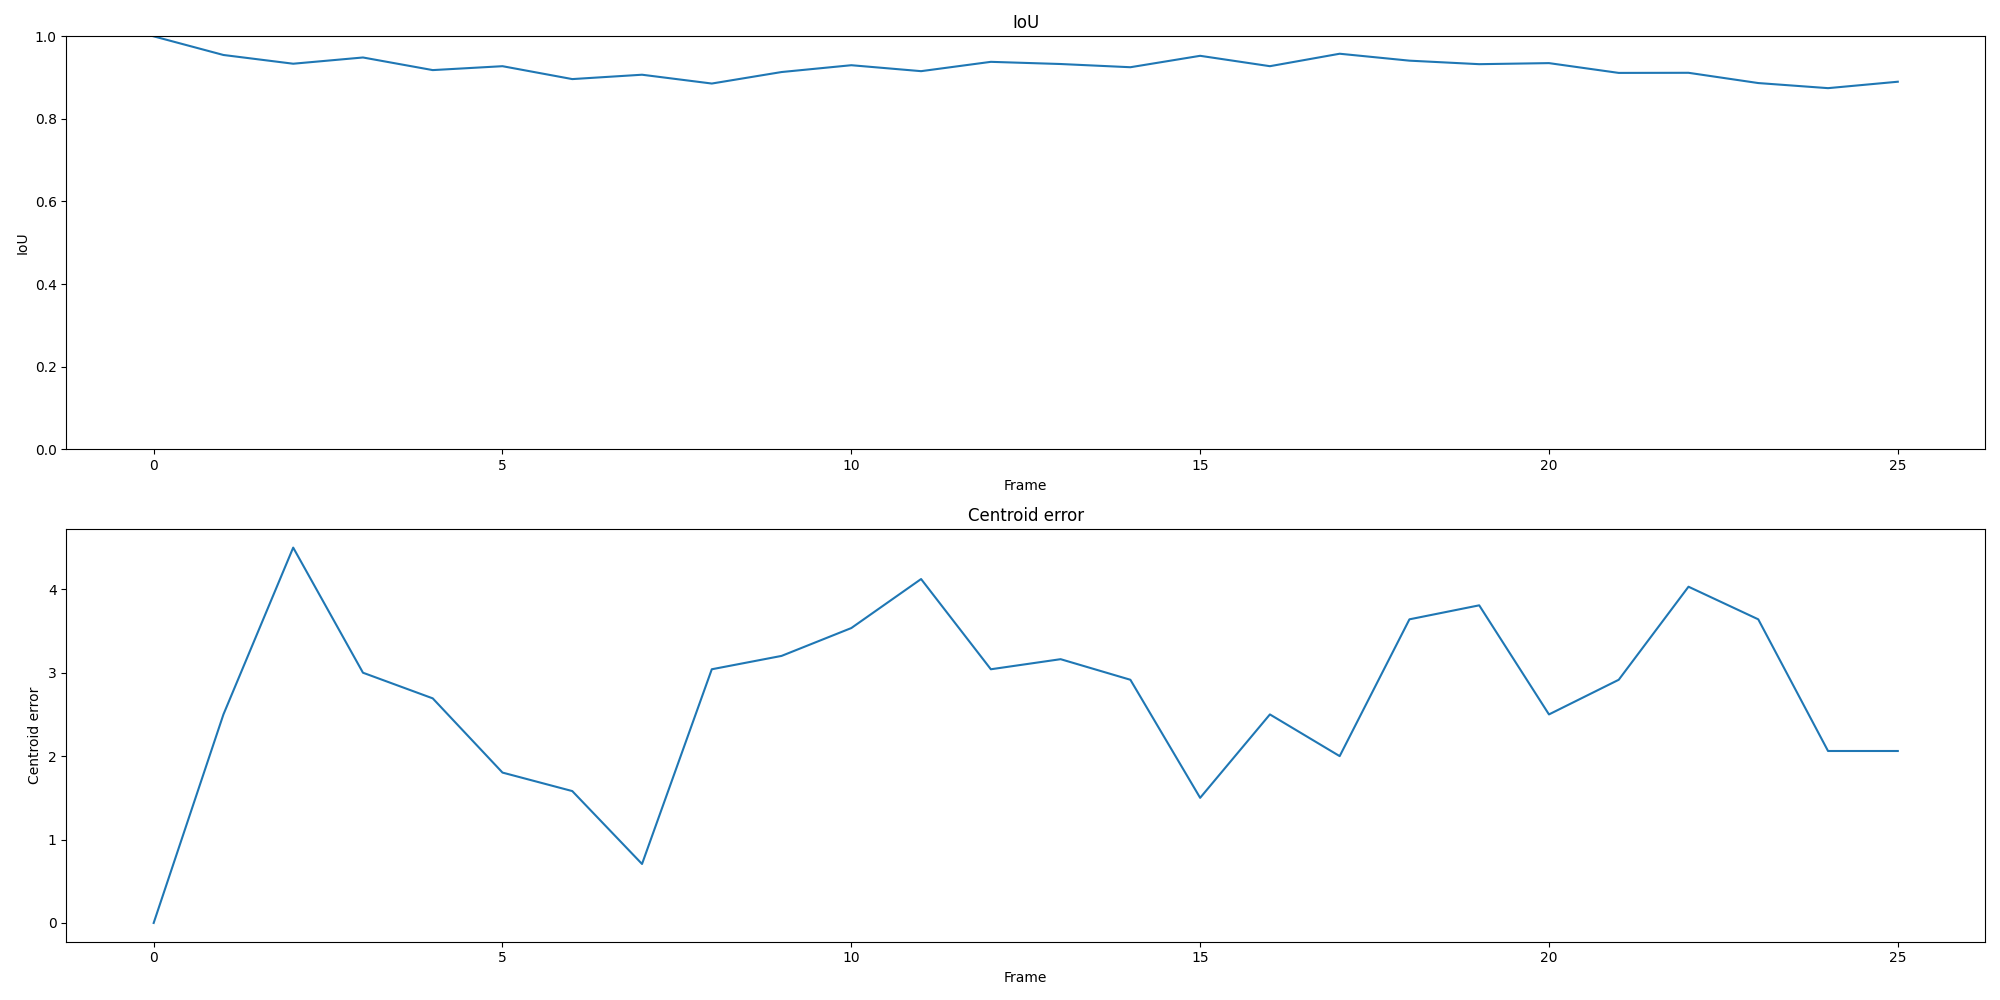
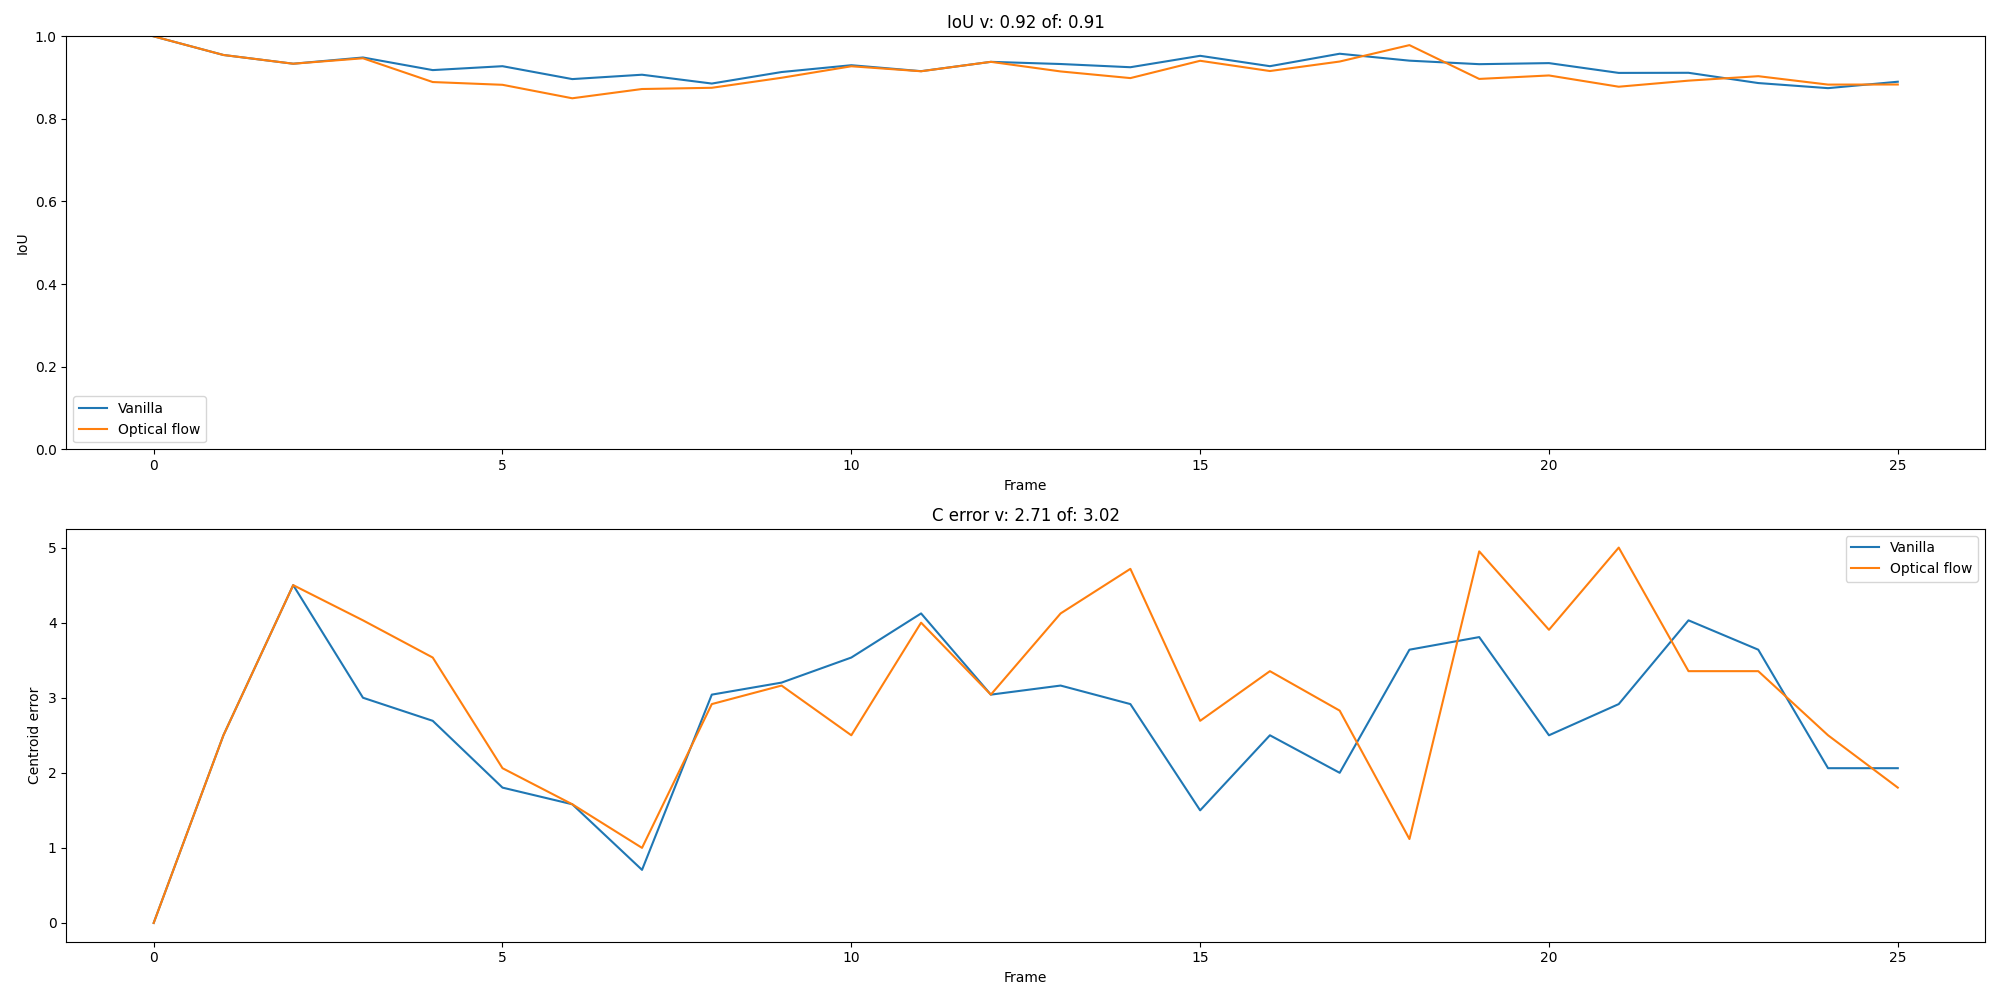
add optical flow

diff --git a/eval.py b/eval.py
@@ -37,7 +37,8 @@ def main(path="sequences-train",
     model.to(device)
     model.eval()
     
-    tracker = Tracker(model, k_context=3)
+    tracker_vanilla = Tracker(model, optical_flow=None)
+    tracker_of = Tracker(model, optical_flow="ilk") # tvl1 or ilk
     
     annotations = utils.load_sequences(path)
     
@@ -48,13 +49,20 @@ def main(path="sequences-train",
         
         box1 = annotations[object_name][0]["box"]
         
-        tracker.init_tracker(img1, box1)
+        tracker_vanilla.init_tracker(img1, box1)
+        tracker_of.init_tracker(img1, box1)
         
         imgs = [img1.copy()]
-        centroid_errors = [0]
-        ious = [1]
         
-        box_c = box1
+        
+        centroid_errors_v = [0]
+        ious_v = [1]
+        
+        centroid_errors_of = [0]
+        ious_of = [1]
+        
+        box_c_v = box1
+        box_c_of = box1
         
         for i in tqdm(range(1, len(annotations[object_name]))):
             img_c = io.imread(annotations[object_name][i]["path"])
@@ -62,16 +70,24 @@ def main(path="sequences-train",
             
             box_gt = annotations[object_name][i]["box"]
             
-            box_c, search_region = tracker.step(img_c, show=show)
-            box_c = box_c.astype(int)        
+            box_c_v, search_region = tracker_vanilla.step(img_c, show=show)
+            box_c_v = box_c_v.astype(int)
             
-            img_c = cv2.rectangle(img_c, (box_c[0], box_c[1]), (box_c[2], box_c[3]), (255, 0, 0), 2)
-            img_c = cv2.rectangle(img_c, (box_gt[0], box_gt[1]), (box_gt[2], box_gt[3]), (0, 255, 0), 2)
+            box_c_of, _ = tracker_of.step(img_c, show=show)
+            box_c_of = box_c_of.astype(int)
+            
+            
+            img_c = cv2.rectangle(img_c, (box_c_v[0], box_c_v[1]), (box_c_v[2], box_c_v[3]), (255, 0, 0), 2) # vanilla in blue
+            img_c = cv2.rectangle(img_c, (box_c_of[0], box_c_of[1]), (box_c_of[2], box_c_of[3]), (0, 0, 255), 2) # optical flow in red
+            img_c = cv2.rectangle(img_c, (box_gt[0], box_gt[1]), (box_gt[2], box_gt[3]), (0, 255, 0), 2) # ground truth in green
             
             imgs.append(img_c)
 
-            ious.append(utils.iou_unit(box_c, box_gt))
-            centroid_errors.append(utils.centroid_error(box_c, box_gt))
+            ious_v.append(utils.iou_unit(box_c_v, box_gt))
+            ious_of.append(utils.iou_unit(box_c_of, box_gt))
+            
+            centroid_errors_v.append(utils.centroid_error(box_c_v, box_gt))
+            centroid_errors_of.append(utils.centroid_error(box_c_of, box_gt))
             
             if show:
                 plt.imshow(search_region)
@@ -79,20 +95,27 @@ def main(path="sequences-train",
                 plt.show()
             
         
-        ious = np.array(ious)   
-        centroid_errors = np.array(centroid_errors)
+        ious_v = np.array(ious_v)
+        ious_of = np.array(ious_of)
+        
+        centroid_errors_v = np.array(centroid_errors_v)
+        centroid_errors_of = np.array(centroid_errors_of)  
         
         plt.figure(figsize=(20, 10))
         plt.subplot(2, 1, 1)
-        plt.plot(ious)
+        plt.plot(ious_v, label="Vanilla")
+        plt.plot(ious_of, label="Optical flow")
+        plt.legend()
+        plt.title(f"IoU v: {np.mean(ious_v):.2f} of: {np.mean(ious_of):.2f}")
         plt.ylim(0, 1)
-        plt.title("IoU")
         plt.xlabel("Frame")
         plt.ylabel("IoU")
 
         plt.subplot(2, 1, 2)
-        plt.plot(centroid_errors)
-        plt.title("Centroid error")
+        plt.plot(centroid_errors_v, label="Vanilla")
+        plt.plot(centroid_errors_of, label="Optical flow")
+        plt.legend()
+        plt.title(f"C error v: {np.mean(centroid_errors_v):.2f} of: {np.mean(centroid_errors_of):.2f}")
         plt.xlabel("Frame")
         plt.ylabel("Centroid error")
         

diff --git a/tracker.py b/tracker.py
@@ -4,10 +4,12 @@ from helper import NormalizeToTensor, Rescale, BoundingBox, crop_sample
 import numpy as np
 import torchvision.transforms as transforms
 import matplotlib.pyplot as plt
+from eval_utils import delta_by_optical_flow
 
 class Tracker():
-    def __init__(self, model, k_context=2):
-        
+    def __init__(self, model, k_context=2, optical_flow=None):
+        assert optical_flow in [None, "tvl1", "ilk"], "Invalid optical flow method"
+        self.optical_flow = optical_flow
 
         self.net = model
         self.net.eval()
@@ -36,10 +38,19 @@ class Tracker():
     def step(self, image, show=False):
         assert self.is_init, "Tracker not initialized"
         
+        if self.optical_flow == "tvl1":
+            u, v = delta_by_optical_flow(self.prev_img, image, mode="tvl1")
+        elif self.optical_flow == "ilk":
+            u, v = delta_by_optical_flow(self.prev_img, image, mode="ilk")
+        else:
+            u, v = 0, 0
+            
+        new_box = self.prev_box + np.array([u, v, u, v])
+        
         prev_sample, opts_prev = crop_sample({'image': self.prev_img,
                                              'bb': self.prev_box})
         curr_sample, opts_curr = crop_sample({'image': image,
-                                             'bb': self.prev_box})
+                                             'bb': new_box})
         
         if show:
             plt.subplot(1, 2, 1)

diff --git a/eval_utils.py b/eval_utils.py
@@ -4,6 +4,9 @@ from skimage import io
 import numpy as np
 import PIL.Image
 import cv2
+from skimage.registration import optical_flow_tvl1, optical_flow_ilk  
+from skimage.color import rgb2gray
+from skimage.transform import resize
 
 def load_sequences(path="sequences-train"):
     unique = set()
@@ -108,6 +111,32 @@ def centroid_error(box1, box2):
     
     return np.sqrt((c1[0] - c2[0])**2 + (c1[1] - c2[1])**2)
     
+    
+def delta_by_optical_flow(img1, img2, mode="tvl1", target_size=(32, 32)):
+    """
+    img1 and img2 are numpy arrays
+    
+    output is a tuple (u, v) where u and v are the displacements in the x and y directions
+    """
+    img1 = rgb2gray(img1)
+    img2 = rgb2gray(img2)
+    
+    img1 = resize(img1, target_size)
+    img2 = resize(img2, target_size)
+    
+    
+    if mode == "tvl1":
+        flow = optical_flow_tvl1(img1, img2)
+    elif mode == "ilk":
+        flow = optical_flow_ilk(img1, img2)
+    else:
+        raise ValueError(f"Invalid mode: {mode}")
+    
+    u = flow[...,0]
+    v = flow[...,1]
+    u_mean = np.mean(u)
+    v_mean = np.mean(v)
+    return u_mean, v_mean
 
 if __name__ == "__main__":
     
